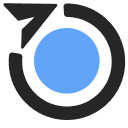
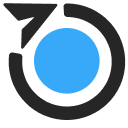
feat: update base styles

Changed region(s): [[0.25, 0.2188, 0.7812, 0.75]]

diff --git a/apps/app/src/app/notes/_components/MiddlePaneList.tsx b/apps/app/src/app/notes/_components/MiddlePaneList.tsx
@@ -61,17 +61,17 @@ const getNoteTypeStyles = (type: string | null) => {
 	switch (type) {
 		case "alert":
 			return {
-				className: "bg-note-alert/10 text-note-alert",
+				className: "bg-note-alert/5 text-note-alert",
 				Icon: AlertTriangle,
 			};
 		case "idea":
 			return {
-				className: "bg-note-idea/10 text-note-idea",
+				className: "bg-note-idea/5 text-note-idea",
 				Icon: Lightbulb,
 			};
 		default:
 			return {
-				className: "bg-note-info/10 text-note-info",
+				className: "bg-note-info/5 text-note-info",
 				Icon: Info,
 			};
 	}

diff --git a/apps/extension/src/index.css b/apps/extension/src/index.css
@@ -7,9 +7,9 @@
   --color-action: #262626;
   --color-action-hover: #737373;
   --color-action-text: #ffffff;
-  --color-note-info: #3b82f6;
-  --color-note-alert: #ef4444;
-  --color-note-idea: #eab308;
+  --color-note-info: #38A8F8;
+  --color-note-alert: #FB7176;
+  --color-note-idea: #ff8104;
   --color-muted: #f3f4f6;
   --color-muted-foreground: #9ca3af;
 }

diff --git a/apps/app/src/app/globals.css b/apps/app/src/app/globals.css
@@ -56,9 +56,10 @@
   --color-action: #262626;
   --color-action-hover: #737373;
   --color-action-text: #ffffff;
-  --color-note-info: #3b82f6;
-  --color-note-alert: #ef4444;
-  --color-note-idea: #eab308;
+
+  --color-note-info: #38A8F8;
+  --color-note-alert: #FB7176;
+  --color-note-idea: #ff8104;
 }
 
 :root {
